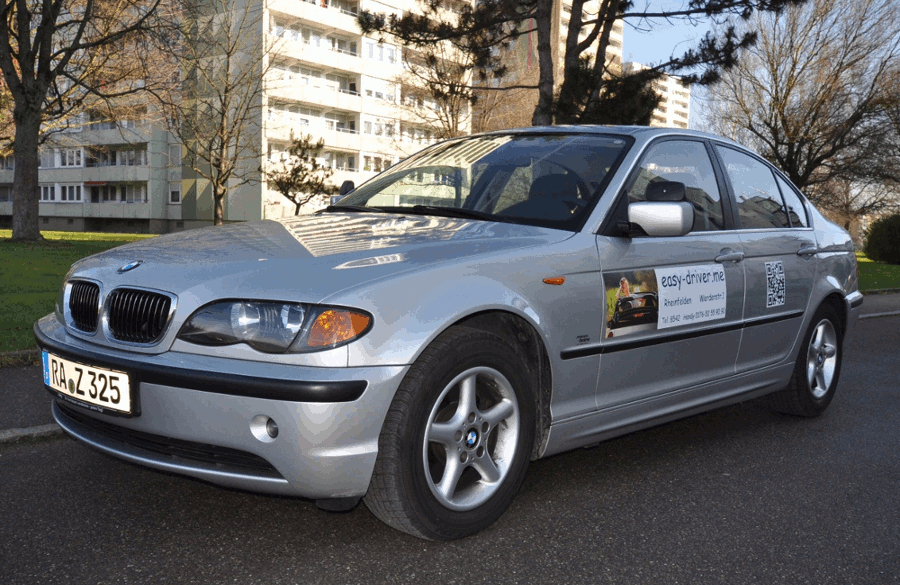
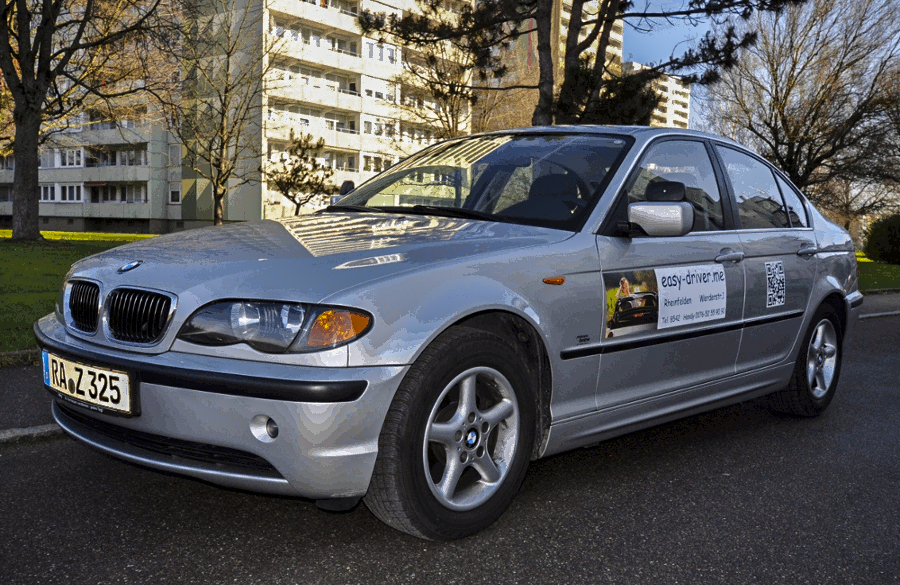
bessere Bilder + test für structured Data

diff --git a/index.html b/index.html
@@ -20,6 +20,7 @@
 	<script src="https://ajax.googleapis.com/ajax/libs/jquery/1.11.3/jquery.min.js"></script>
 	<script src="js/bootstrap.js"></script>
 	<script src="js/jquery.js"></script>
+	<script src="js/schema.json"></script>
   </head>
   <body data-spy="scroll" data-target=".navbar" data-offset="50">
 
@@ -85,7 +86,6 @@
 					<h2>Finde uns!</h2>
 					<p>
 					Werderstraße 1<br />
-					(am Oberrheinplatz)<br />
 					79618 Rheinfelden<br />
 					<small>(Bushaltestelle Oberrheinplatz in 50m Entfernung)</small>
 					</p>
@@ -96,7 +96,7 @@
 	
 	<!-- KARTE -->
 	<div style="height:4.5em"></div>
-	<iframe class="container-fluid" style="overflow:hidden" width="100%" height="50%" frameborder="0" style="border:0"
+	<iframe class="container-fluid" style="overflow:hidden" width="100%" height="75%" frameborder="0" style="border:0"
 src="https://www.google.com/maps/embed/v1/place?q=place_id:ChIJ-0Rxq_K0kUcRXk-5intWgA4&key=AIzaSyBKsLLzkQky4nZlAhW4ilcKy85P9Jfwp6o " allowfullscreen>
 	</iframe> 
 	
@@ -201,7 +201,7 @@ src="https://www.google.com/maps/embed/v1/place?q=place_id:ChIJ-0Rxq_K0kUcRXk-5i
 		<div class="container">
 			<footer class="footer text-center">
 				&copy; easy-driver.me <br />
-				<small>Hosted on <a href="http://getbootstrap.com/" alt ="GitHub" title="GitHub.com" target="_blank">GitHub</a>. Created with <a href="http://getbootstrap.com/" alt ="Bootstrap" title="getbootstrap.com" target="_blank">Bootstrap</a>.</small>
+				<small>Hosted on <a href="http://getbootstrap.com/" alt ="GitHub" title="GitHub.com" target="_blank">GitHub</a>. Using <a href="http://getbootstrap.com/" alt ="Bootstrap" title="getbootstrap.com" target="_blank">Bootstrap</a>.</small>
 			</footer>
 		</div>
   </body>
